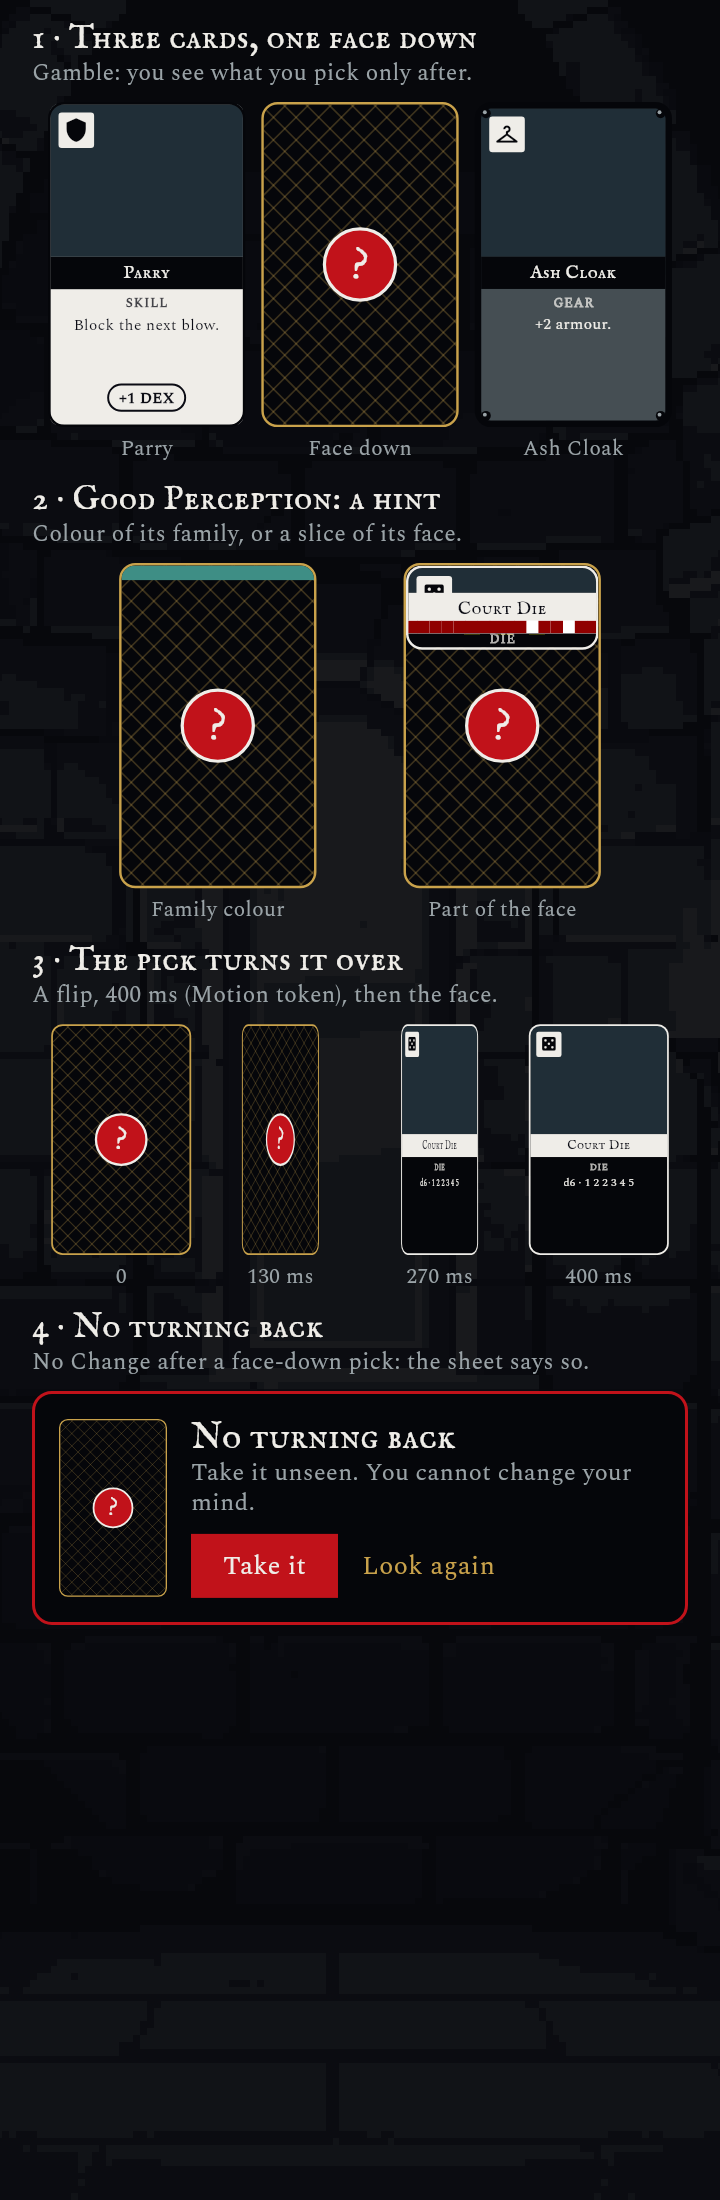
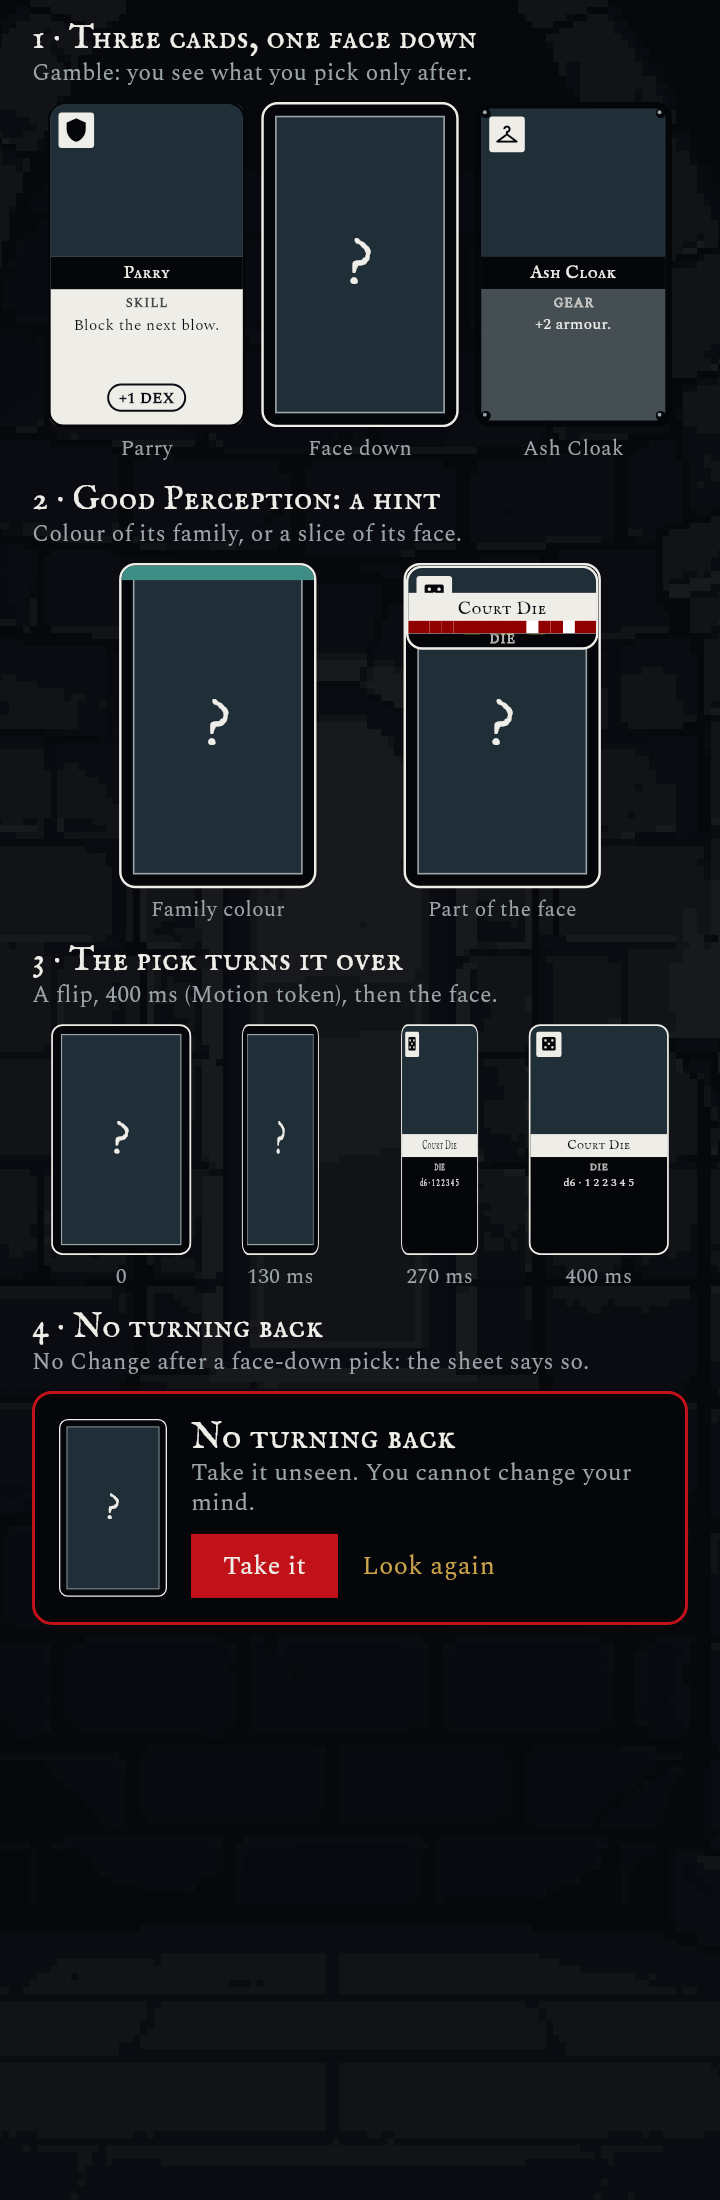
Gamble pictures: face-down card is the back of our own Tower card
Claude-Session: https://claude.ai/code/session_019ETFw2Y7wpHSXWG5mmACty

diff --git a/test/ux_gamble_card_shots_test.dart b/test/ux_gamble_card_shots_test.dart
@@ -1,6 +1,6 @@
 // PICTURES (UX_SHOTS=<folder>): MOCKS of the GAMBLE card: one of the three is
 // dealt face down; a good Perception shows a hint; the pick reveals it with a
-// flip; no Change afterwards. The back and the '?' seal are placeholders drawn
+// flip; no Change afterwards. The back and the '?' seal are the back of our own card
 // here until Art's files arrive. Not wired in.
 import 'dart:io';
 import 'dart:ui' as ui;
@@ -29,23 +29,8 @@ TextStyle _d(double s, Color c) =>
 
 const _teal = Color(0xFF3E8E85);
 
-class _Lattice extends CustomPainter {
-  @override
-  void paint(Canvas canvas, Size size) {
-    final p = Paint()
-      ..color = inkGold.withValues(alpha: 0.28)
-      ..strokeWidth = 1;
-    for (var x = -size.height; x < size.width; x += 14) {
-      canvas.drawLine(Offset(x, 0), Offset(x + size.height, size.height), p);
-      canvas.drawLine(Offset(x + size.height, 0), Offset(x, size.height), p);
-    }
-  }
-
-  @override
-  bool shouldRepaint(_) => false;
-}
-
-/// Placeholder back (Art draws the real 244 x 402 one).
+/// The back of our own Tower card: same frame and corner, the card's own
+/// dark stock and the ink hatching of its band, one paper '?' in the middle.
 class _Back extends StatelessWidget {
   const _Back({this.band, this.peek = false});
   final Color? band;
@@ -56,12 +41,18 @@ class _Back extends StatelessWidget {
         height: 201,
         decoration: BoxDecoration(
             color: inkBlack,
-            border: Border.all(color: inkGold, width: 1.5),
+            border: Border.all(color: inkPaper, width: 1.5),
             borderRadius: BorderRadius.circular(10)),
         child: ClipRRect(
           borderRadius: BorderRadius.circular(8.5),
           child: Stack(fit: StackFit.expand, children: [
-            CustomPaint(painter: _Lattice()),
+            Padding(
+              padding: const EdgeInsets.all(7),
+              child: DecoratedBox(
+                  decoration: BoxDecoration(
+                      color: inkDark,
+                      border: Border.all(color: inkGrey, width: 1))),
+            ),
             if (band != null)
               Positioned(
                   top: 0,
@@ -70,18 +61,7 @@ class _Back extends StatelessWidget {
                   child: Container(height: 9, color: band)),
             if (peek)
               const Positioned(top: 0, left: 0, right: 0, child: _FacePeek()),
-            Center(
-              child: Container(
-                width: 46,
-                height: 46,
-                alignment: Alignment.center,
-                decoration: BoxDecoration(
-                    color: inkRed,
-                    shape: BoxShape.circle,
-                    border: Border.all(color: inkPaper, width: 2)),
-                child: Text('?', style: _d(30, inkPaper)),
-              ),
-            ),
+            Center(child: Text('?', style: _d(44, inkPaper))),
           ]),
         ),
       );
